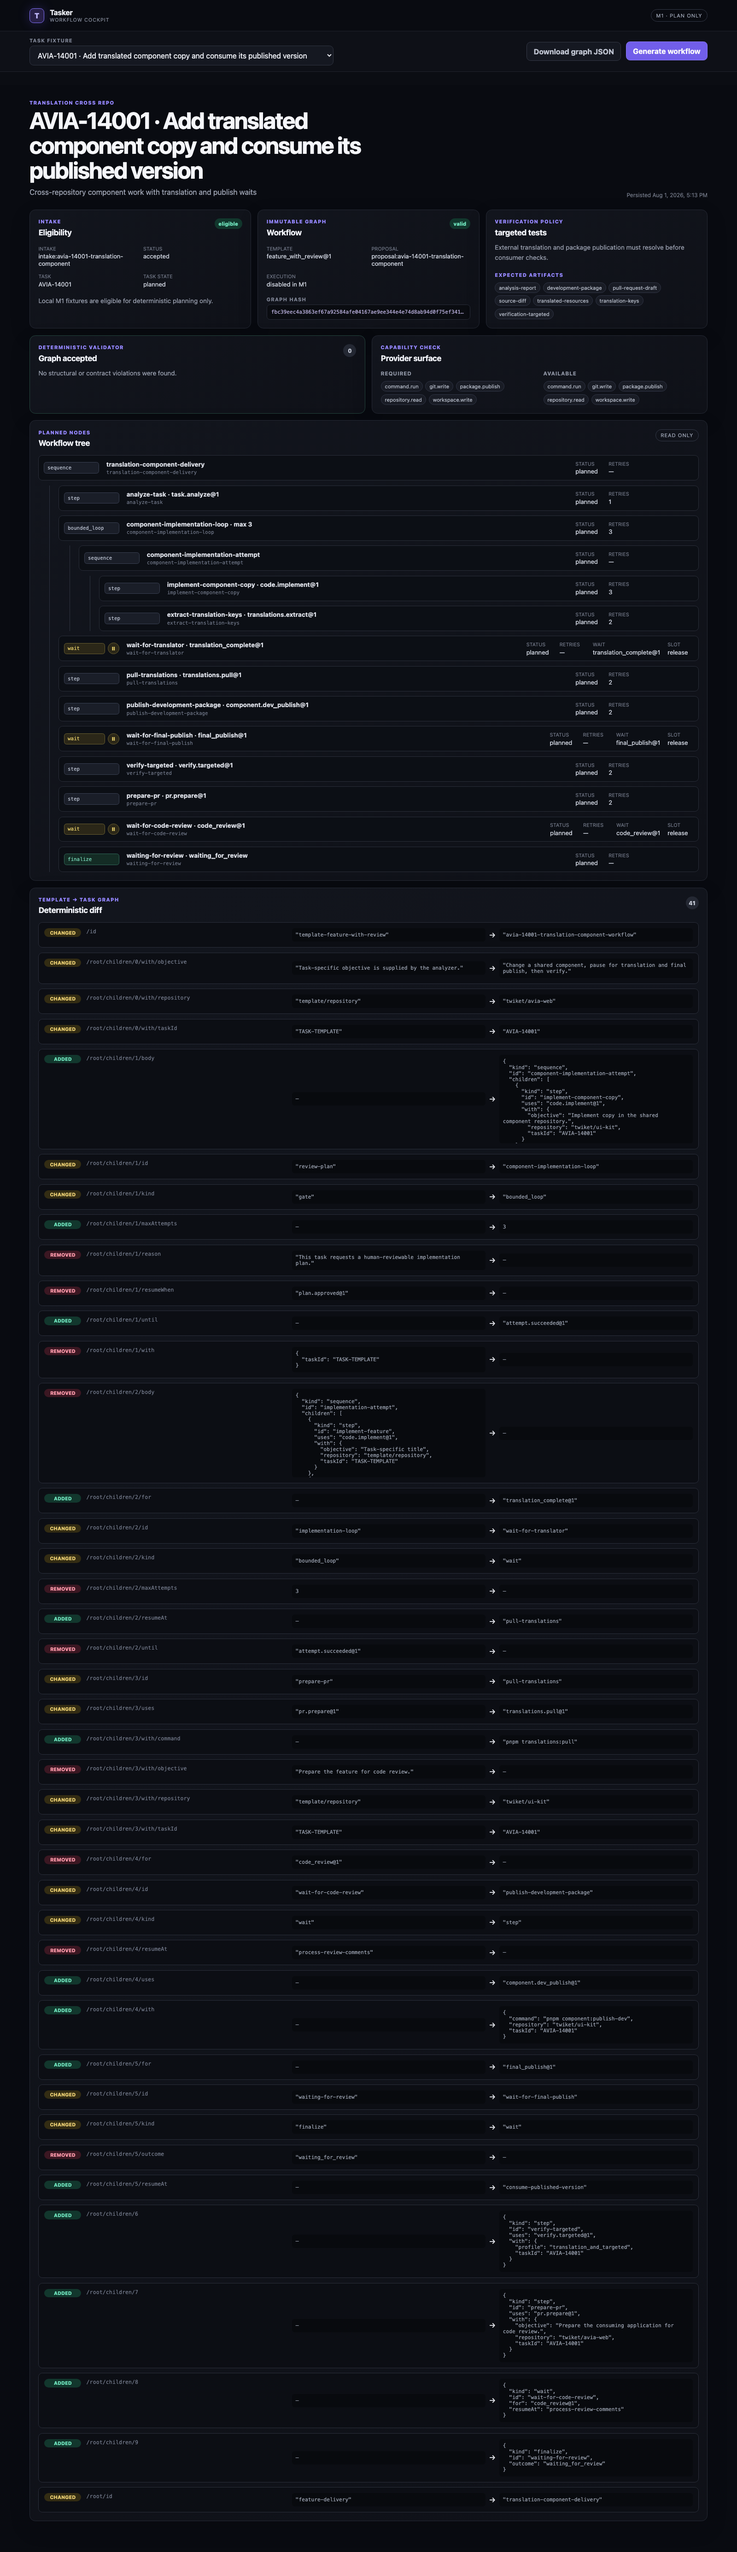
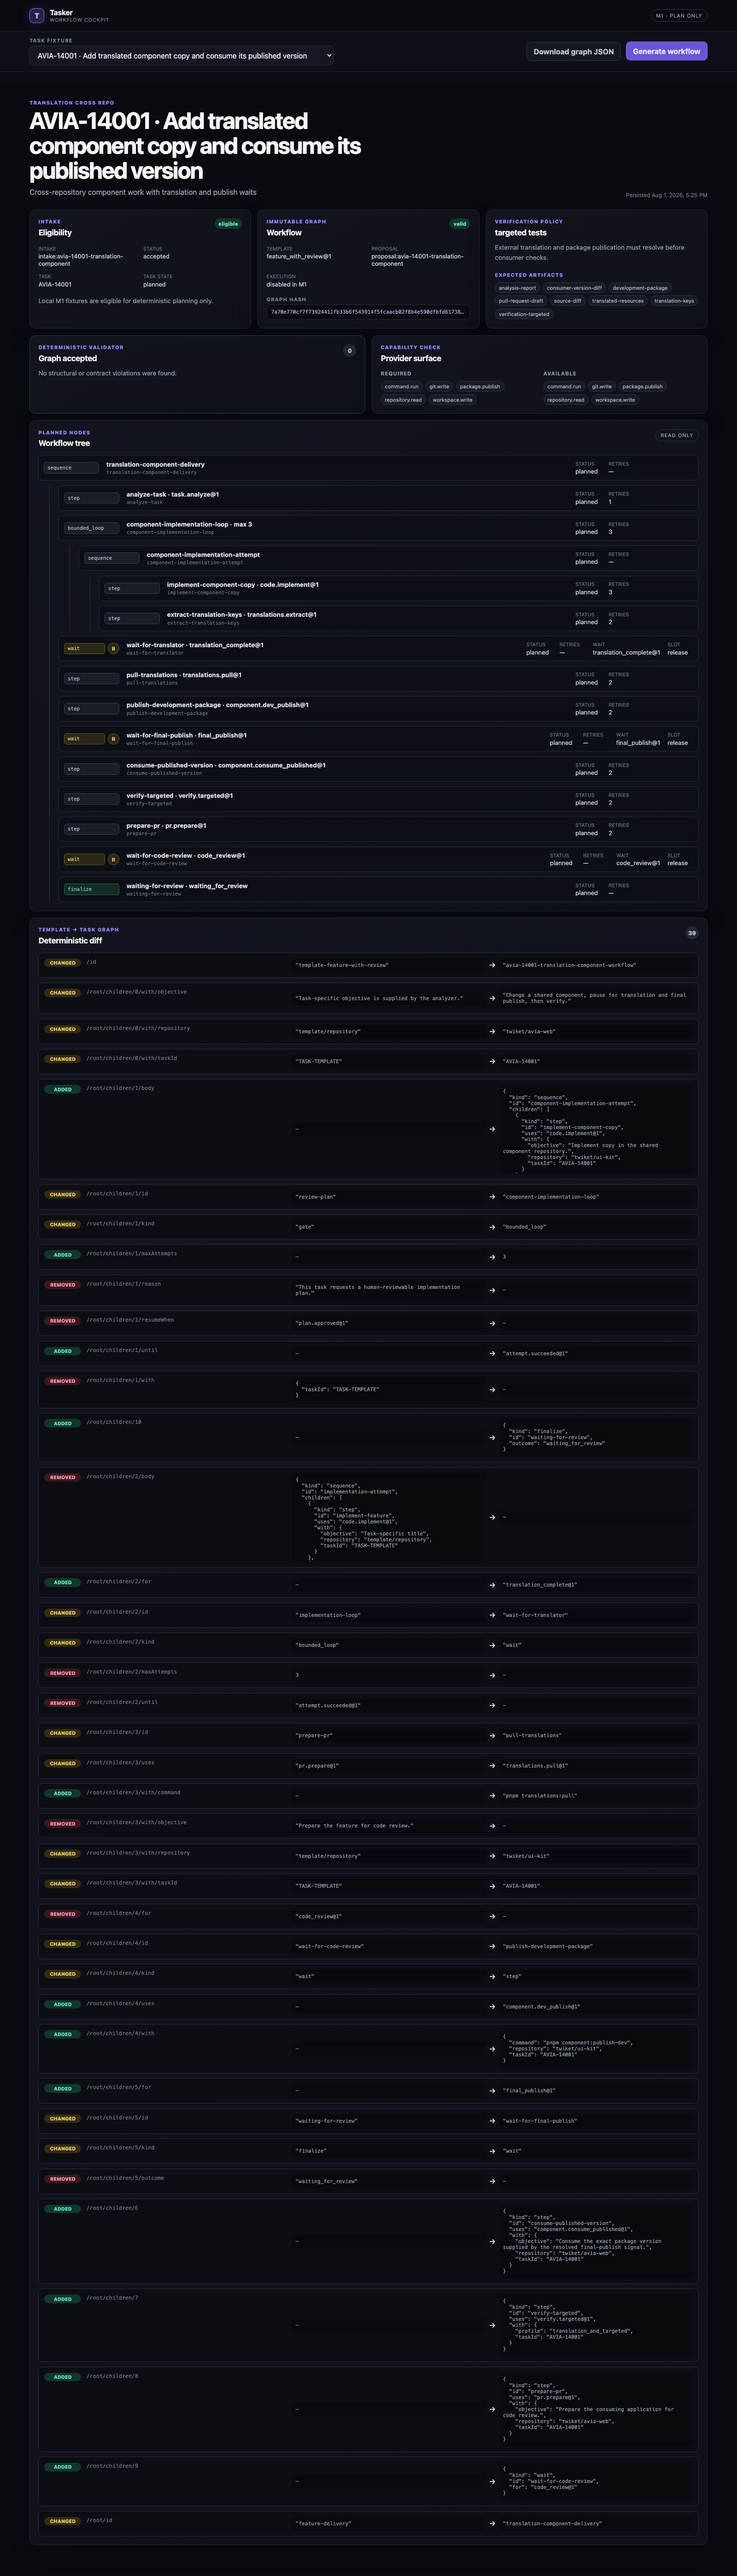
Prevent persisted waits from pointing outside their workflow
Wait resume metadata is part of the durable graph ABI, so the compiler now rejects targets that do not name a graph node. M1 templates use structural continuation, and the cross-repository flow explicitly consumes the human-published package version before verification.

Constraint: M2 must be able to resume a persisted M1 graph without inventing or ignoring cursor metadata
Rejected: Keep free-form resume labels for future handlers | persists an invalid cursor contract before those handlers exist
Confidence: high
Scope-risk: narrow
Reversibility: clean
Directive: Do not add resumeAt metadata without a real graph node and compiler coverage
Tested: pnpm verify; pnpm test:e2e; production cockpit screenshot capture
Not-tested: M2 runtime traversal and real package publication signals

diff --git a/src/workflow/compiler.ts b/src/workflow/compiler.ts
@@ -37,6 +37,11 @@ interface ValidationContext {
   readonly contracts: WorkflowCompilerContracts;
   readonly duplicateIds: Map<string, IssuePath>;
   readonly issues: ValidationIssue[];
+  readonly resumeTargets: {
+    readonly nodeId: string;
+    readonly path: IssuePath;
+    readonly target: string;
+  }[];
   readonly references: {
     readonly predicates: Set<string>;
     readonly stepTypes: Set<string>;
@@ -122,6 +127,7 @@ const createValidationContext = (contracts: WorkflowCompilerContracts): Validati
   contracts,
   duplicateIds: new Map<string, IssuePath>(),
   issues: [],
+  resumeTargets: [],
   references: {
     predicates: new Set<string>(),
     stepTypes: new Set<string>(),
@@ -381,6 +387,14 @@ const normalizeNode = (
     case 'wait': {
       const waitContract = validateWaitReference(context, node.for, [...path, 'for']);
 
+      if (node.resumeAt !== undefined) {
+        context.resumeTargets.push({
+          nodeId: node.id,
+          path: [...path, 'resumeAt'],
+          target: node.resumeAt,
+        });
+      }
+
       return {
         kind: 'wait',
         id: node.id,
@@ -559,6 +573,21 @@ const compileValidWorkflow = (
   context: ValidationContext,
 ): Outcome<CompiledWorkflowArtifact, ValidationReport> => {
   const root = normalizeNode(context, source.root, ['root']);
+
+  for (const resumeTarget of context.resumeTargets) {
+    if (!context.duplicateIds.has(resumeTarget.target)) {
+      addIssue(context, {
+        code: 'unknown_resume_target',
+        message: `Wait "${resumeTarget.nodeId}" resumes at unknown node "${resumeTarget.target}"`,
+        path: resumeTarget.path,
+        details: {
+          nodeId: resumeTarget.nodeId,
+          resumeAt: resumeTarget.target,
+        },
+      });
+    }
+  }
+
   const terminalAnalysis = analyzeTerminalStructure(context, root, ['root']);
 
   if (terminalAnalysis.mayContinue) {

diff --git a/src/planning/templates.ts b/src/planning/templates.ts
@@ -71,7 +71,6 @@ const shortBugfixRoot = (task: TaskContext): WorkflowNodeSource =>
     }),
     wait('wait-for-code-review', {
       for: 'code_review@1',
-      resumeAt: 'process-review-comments',
     }),
     finalize('waiting-for-review', { outcome: 'waiting_for_review' }),
   ]);
@@ -122,7 +121,6 @@ const featureWithReviewRoot = (
     }),
     wait('wait-for-code-review', {
       for: 'code_review@1',
-      resumeAt: 'process-review-comments',
     }),
     finalize('waiting-for-review', { outcome: 'waiting_for_review' }),
   ]);
@@ -158,7 +156,6 @@ const translationCrossRepoRoot = (
     }),
     wait('wait-for-translator', {
       for: 'translation_complete@1',
-      resumeAt: 'pull-translations',
     }),
     step('pull-translations', {
       uses: 'translations.pull@1',
@@ -178,7 +175,13 @@ const translationCrossRepoRoot = (
     }),
     wait('wait-for-final-publish', {
       for: 'final_publish@1',
-      resumeAt: 'consume-published-version',
+    }),
+    step('consume-published-version', {
+      uses: 'component.consume_published@1',
+      with: taskInput(
+        task,
+        'Consume the exact package version supplied by the resolved final-publish signal.',
+      ),
     }),
     step('verify-targeted', {
       uses: 'verify.targeted@1',
@@ -190,7 +193,6 @@ const translationCrossRepoRoot = (
     }),
     wait('wait-for-code-review', {
       for: 'code_review@1',
-      resumeAt: 'process-review-comments',
     }),
     finalize('waiting-for-review', { outcome: 'waiting_for_review' }),
   ]);

diff --git a/test/unit/workflow/compiler.test.ts b/test/unit/workflow/compiler.test.ts
@@ -148,7 +148,7 @@ describe('workflow compiler', () => {
         wait('code-review', {
           for: 'review_event@1',
           slotPolicy: 'release',
-          resumeAt: 'post-review',
+          resumeAt: 'waiting-for-review',
         }),
         finalize('waiting-for-review', {
           outcome: 'waiting_for_review',
@@ -498,6 +498,37 @@ describe('workflow compiler', () => {
           outcome: 'waiting_for_review',
         },
       ],
+    });
+  });
+
+  it('rejects a wait resume cursor that does not reference a graph node', () => {
+    const result = compileWorkflow({
+      contracts: baseContracts(),
+      source: defineWorkflow({
+        id: 'orphan-resume-target',
+        version: 1,
+        root: sequence('delivery', [
+          wait('code-review', {
+            for: 'review_event@1',
+            resumeAt: 'missing-review-handler',
+          }),
+          finalize('done', { outcome: 'waiting_for_review' }),
+        ]),
+      }),
+    });
+
+    expect(result.ok).toBe(false);
+    if (result.ok) {
+      return;
+    }
+    expect(result.error.issues).toContainEqual({
+      code: 'unknown_resume_target',
+      message: 'Wait "code-review" resumes at unknown node "missing-review-handler"',
+      path: ['root', 'children', 0, 'resumeAt'],
+      details: {
+        nodeId: 'code-review',
+        resumeAt: 'missing-review-handler',
+      },
     });
   });
 

diff --git a/src/planning/contracts.ts b/src/planning/contracts.ts
@@ -165,6 +165,23 @@ const stepDefinitions: readonly M1StepDefinition[] = [
   },
   {
     contract: {
+      id: 'component.consume_published',
+      version: '1',
+      inputSchema: taskInputSchema,
+      outputSchema: z.looseObject({}),
+      allowedEffects: ['workspace.write'],
+      requiredCapabilities: ['repository.read', 'workspace.write'],
+      resumeBoundary: 'step',
+      idempotency: 'key',
+      retryPolicy: 'bounded:2',
+      waitKinds: [],
+      artifactContracts: ['consumer-version-diff'],
+      reconciliation: { strategy: 'receipt' },
+    },
+    retryBudget: 2,
+  },
+  {
+    contract: {
       id: 'unsafe.effect',
       version: '1',
       inputSchema: taskInputSchema,

diff --git a/test/unit/planning/planner.test.ts b/test/unit/planning/planner.test.ts
@@ -105,5 +105,10 @@ describe('M1 task workflow planning', () => {
     expect(
       Object.values(result.value.presentation.nodes).some((node) => node.kind === 'wait'),
     ).toBe(true);
+    expect(result.value.presentation.nodes['consume-published-version']).toMatchObject({
+      kind: 'step',
+      uses: 'component.consume_published@1',
+    });
+    expect(result.value.proposal.waits.every((wait) => wait.resumeAt === undefined)).toBe(true);
   });
 });

diff --git a/src/workflow/schema.ts b/src/workflow/schema.ts
@@ -82,6 +82,7 @@ export interface ValidationIssue {
     | 'invalid_source'
     | 'invalid_terminal_structure'
     | 'missing_terminal_path'
+    | 'unknown_resume_target'
     | 'unknown_reference'
     | 'wait_without_resolution_contract';
   readonly message: string;

diff --git a/docs/codex/m1-implementation.md b/docs/codex/m1-implementation.md
@@ -36,6 +36,9 @@ flowchart LR
 - strict Zod parsing at fixture, proposal, projection, HTTP, and browser boundaries;
 - graph SHA-256, template-to-task diff, retry budgets, waits, expected artifacts,
   capability inventory, and verification rationale;
+- compiler rejection of wait cursors that reference a node absent from the graph;
+- an explicit `consume-published-version` step after the human final-publish wait in
+  the cross-repository flow;
 - atomic ledger commit of intake/task/workflow events, snapshot, projections, and
   linked proposal/validator/diff/graph artifacts;
 - persisted accepted and rejected outcomes with no outbox command;
